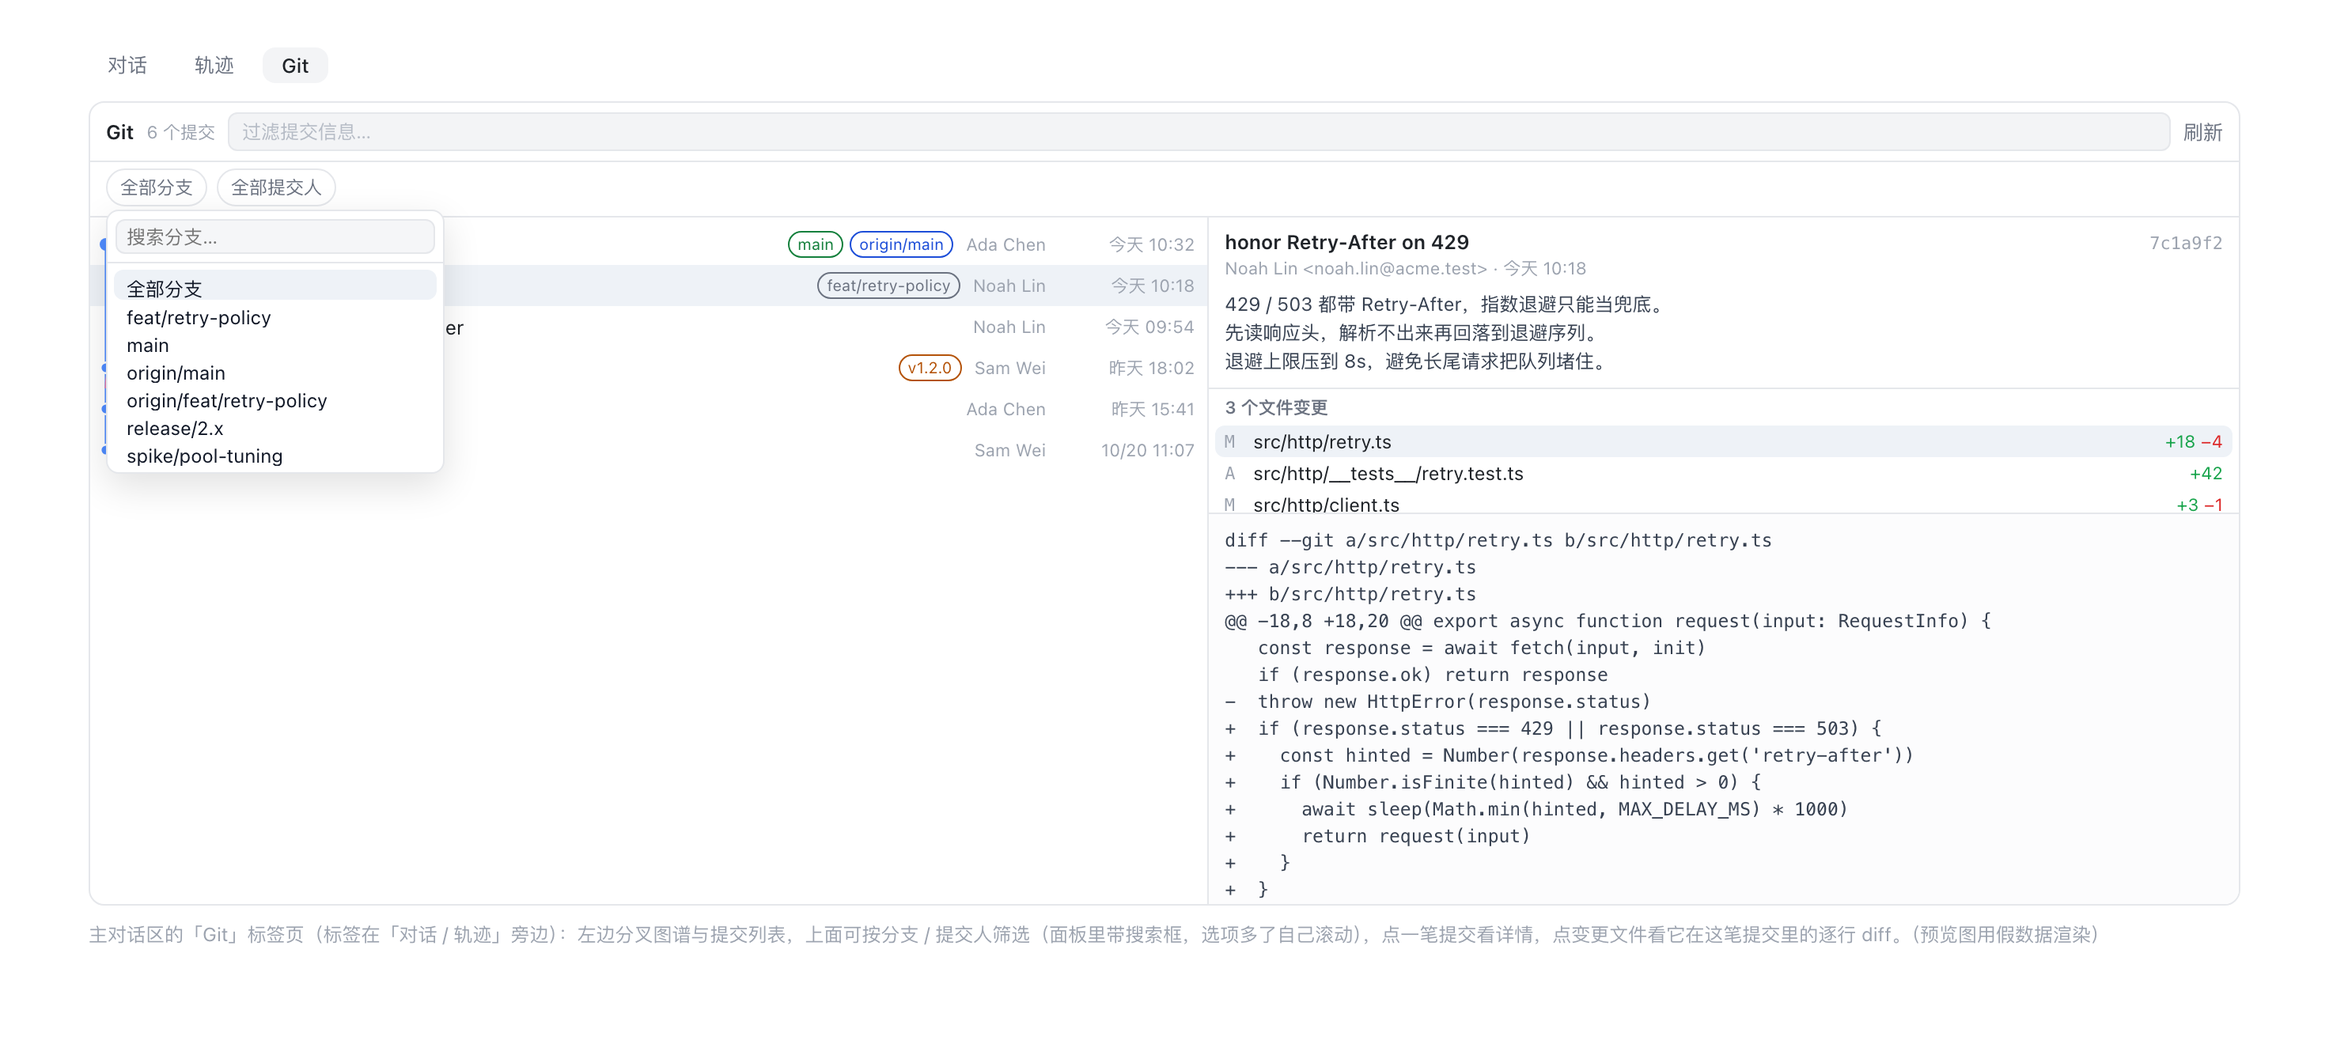
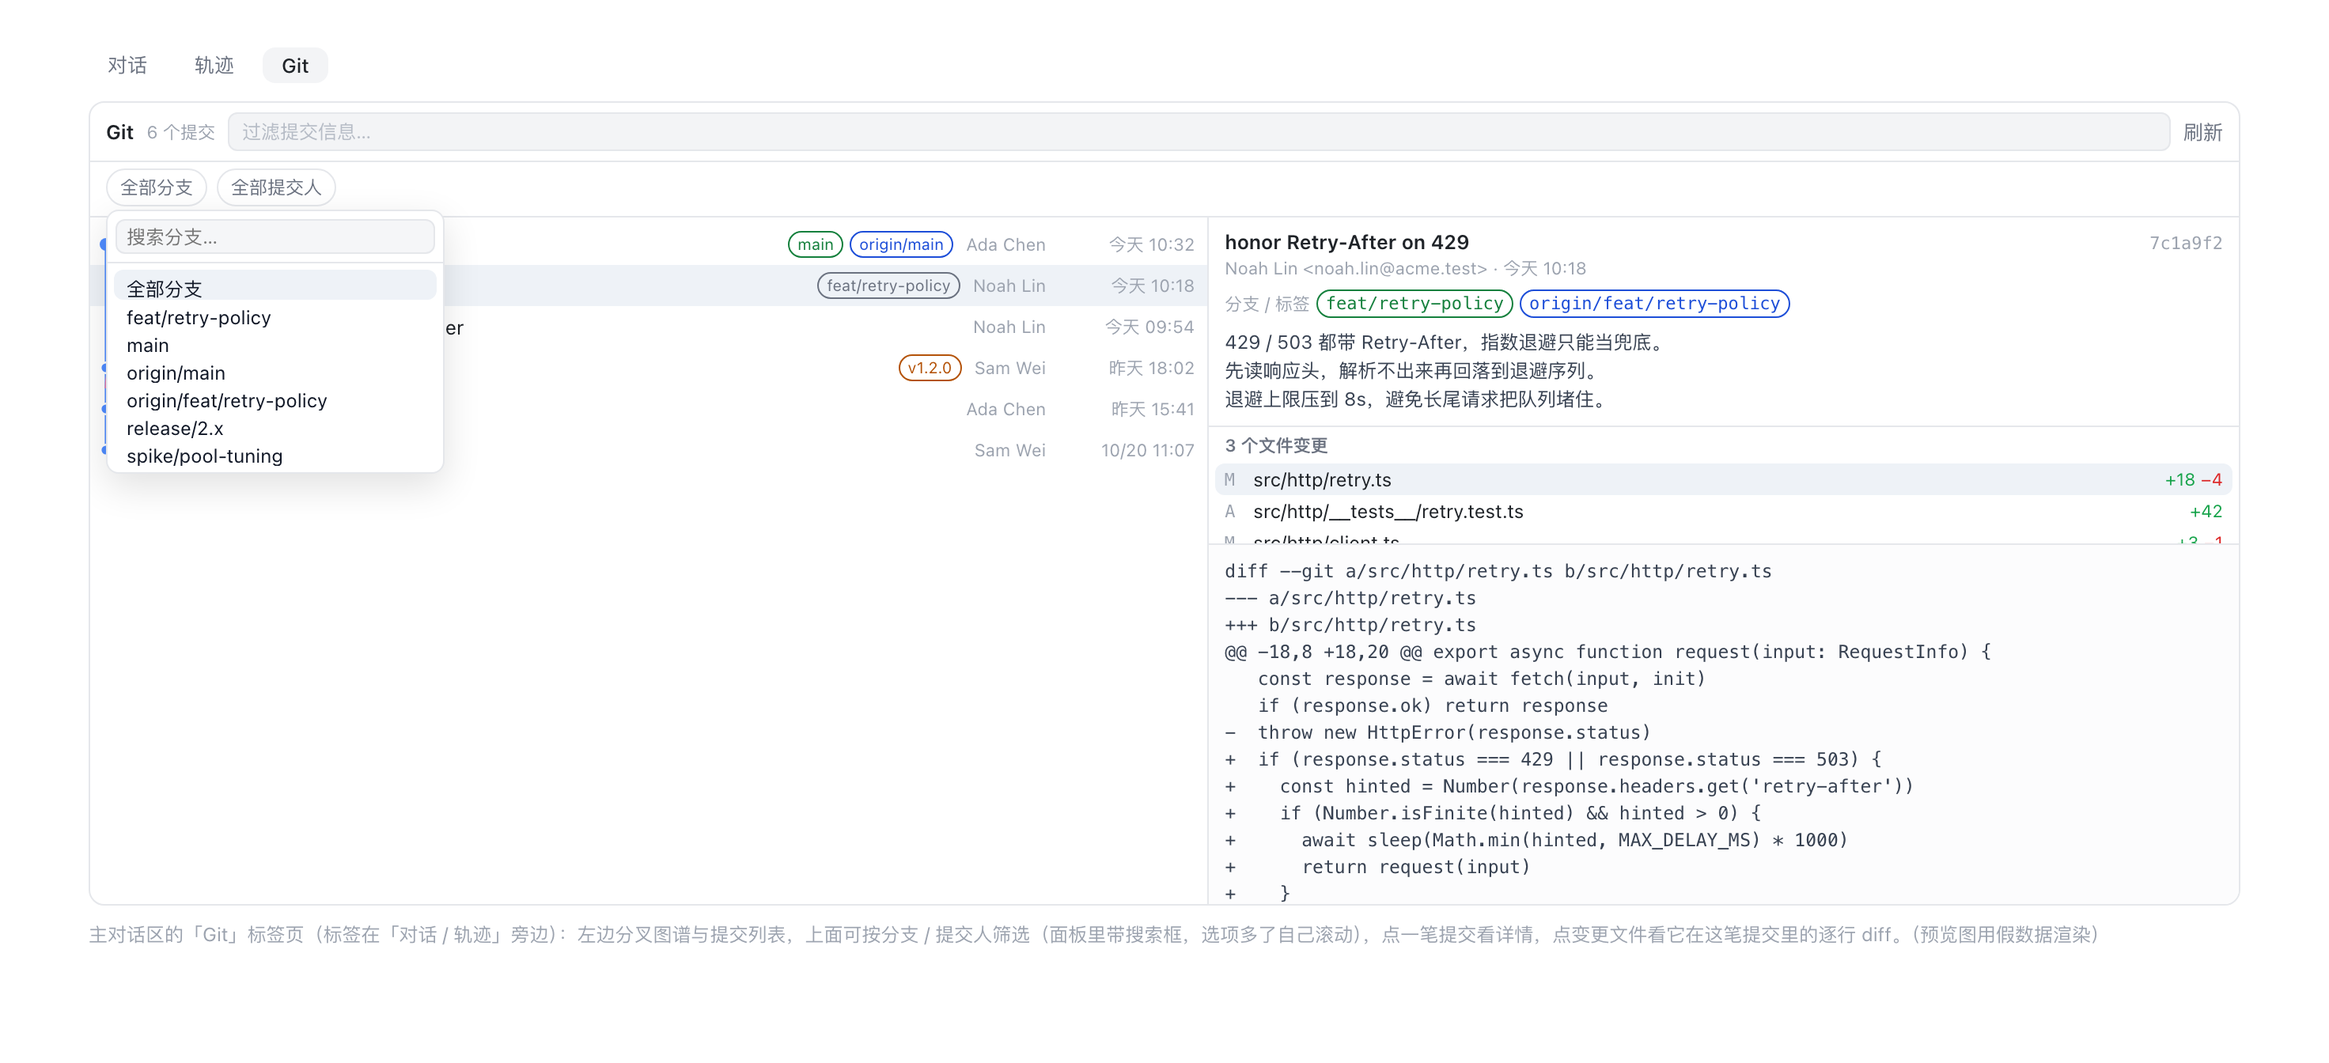
feat(history): 提交详情列出分支/标签全名，可拖选复制
左侧列表的徽标会被 maxWidth 截断，行又是 button，长分支名既看不全也选不动。
详情面板在作者行下面加一行「分支 / 标签」，chip 按 kind 上色、全名不截断、
user-select:text 可拖选复制；没有引用时不渲染空行。

数据由 GET /dsh-git-bar/commit 现查（git show -s --decorate=full --format=%D
+ 复用 parseRefs），而不是从已加载的 log 页里按 hash 找——切分支/提交人筛选后
选中的提交可能已不在当前页，那条路会给出空数组。

验证：npm run check、npm test 全绿；host 新增 44b（head:main / local:feature/x
/ tag:v1，无引用提交为空数组）；交互新增 8b（无引用不渲染 refs 行）与 chip 的
userSelect 断言；docs/preview-history.png 用假数据重渲染。

Changed region(s): [[0.5312, 0.25, 0.8438, 0.8438], [0.9375, 0.4375, 0.9688, 0.5]]

diff --git a/client.js b/client.js
@@ -186,6 +186,7 @@ window.__ModuleLoader__.load({
       'history.more': '加载更多提交',
       'history.capped': '已到 {count} 笔上限，缩小筛选范围才能看更早的提交',
       'history.pick': '选一笔提交查看详情',
+      'history.refs': '分支 / 标签',
       'history.files': '变更文件',
       'history.noFiles': '这笔提交没有文件变更',
       'history.diffPick': '选一个文件看它在这笔提交里的改动',
@@ -267,6 +268,7 @@ window.__ModuleLoader__.load({
       'history.more': 'Load more commits',
       'history.capped': 'Stopped at {count} commits — narrow the filter to reach older ones',
       'history.pick': 'Pick a commit to see its detail',
+      'history.refs': 'Branches / tags',
       'history.files': 'Changed files',
       'history.noFiles': 'This commit changes no file',
       'history.diffPick': 'Pick a file to see its change in this commit',
@@ -1985,6 +1987,37 @@ window.__ModuleLoader__.load({
         fontSize: '11px',
         color: 'var(--dsw-alias-label-tertiary, #9ca3af)',
       },
+      // 这笔提交的引用（分支 / 远端分支 / 标签）：完整名字排一行，允许换行；
+      // 与左侧列表上的小徽标不同，这里不截断——用户要照抄的就是这个全名。
+      detailRefs: {
+        flex: 'none',
+        display: 'flex',
+        flexWrap: 'wrap',
+        alignItems: 'center',
+        gap: '4px',
+        padding: '0 10px 6px',
+        fontSize: '11px',
+        lineHeight: '16px',
+        color: 'var(--dsw-alias-label-tertiary, #9ca3af)',
+        // 分支名要能被拖选、⌘/Ctrl+C 复制。
+        userSelect: 'text',
+        WebkitUserSelect: 'text',
+        cursor: 'text',
+      },
+      detailRef: {
+        flex: '0 1 auto',
+        maxWidth: '100%',
+        padding: '0 5px',
+        borderRadius: '999px',
+        border: '1px solid currentColor',
+        fontFamily: 'ui-monospace, SFMono-Regular, "SF Mono", Menlo, monospace',
+        fontSize: '11px',
+        lineHeight: '16px',
+        overflowWrap: 'anywhere',
+        userSelect: 'text',
+        WebkitUserSelect: 'text',
+        cursor: 'text',
+      },
       detailBody: {
         flex: 'none',
         maxHeight: '132px',
@@ -2309,7 +2342,7 @@ window.__ModuleLoader__.load({
       const [log, setLog] = React.useState({ phase: 'loading', commits: [], hasMore: false, reason: '', error: '' })
       const [filter, setFilter] = React.useState('')
       const [picked, setPicked] = React.useState('')
-      const [detail, setDetail] = React.useState({ phase: 'idle', subject: '', body: '', short: '', author: '', when: '', files: [], error: '', truncated: false })
+      const [detail, setDetail] = React.useState({ phase: 'idle', subject: '', body: '', short: '', author: '', when: '', files: [], refs: [], error: '', truncated: false })
       const [pickedPath, setPickedPath] = React.useState('')
       const [diff, setDiff] = React.useState({ phase: 'idle', text: '', truncated: false })
       const [menu, setMenu] = React.useState('')
@@ -2488,11 +2521,11 @@ window.__ModuleLoader__.load({
 
       React.useEffect(() => {
         if (picked === '') {
-          setDetail({ phase: 'idle', subject: '', body: '', short: '', author: '', when: '', files: [], error: '', truncated: false })
+          setDetail({ phase: 'idle', subject: '', body: '', short: '', author: '', when: '', files: [], refs: [], error: '', truncated: false })
           return () => {}
         }
         let live = true
-        setDetail({ phase: 'loading', subject: '', body: '', short: '', author: '', when: '', files: [], error: '', truncated: false })
+        setDetail({ phase: 'loading', subject: '', body: '', short: '', author: '', when: '', files: [], refs: [], error: '', truncated: false })
         getJson(COMMIT_ROUTE, { hash: picked })
           .then((body) => {
             if (!live) return
@@ -2504,13 +2537,14 @@ window.__ModuleLoader__.load({
               author: String(body.author ?? ''),
               when: String(body.when ?? ''),
               files: Array.isArray(body.files) ? body.files : [],
+              refs: Array.isArray(body.refs) ? body.refs : [],
               error: '',
               truncated: body.truncated === true,
             })
           })
           .catch((error) => {
             if (!live) return
-            setDetail({ phase: 'failed', subject: '', body: '', short: '', author: '', when: '', files: [], error: error instanceof Error ? error.message : String(error), truncated: false })
+            setDetail({ phase: 'failed', subject: '', body: '', short: '', author: '', when: '', files: [], refs: [], error: error instanceof Error ? error.message : String(error), truncated: false })
           })
         return () => {
           live = false
@@ -2894,6 +2928,27 @@ window.__ModuleLoader__.load({
                     h('span', { style: historyStyles.detailHash }, detail.short),
                   ),
                   h('div', { style: historyStyles.detailMeta }, `${detail.author} · ${formatWhen(detail.when, t)}`),
+                  // 这笔提交被哪些分支 / 标签指着。左侧列表里的徽标会被 `maxWidth` 截断、
+                  // 又在按钮里不好选，所以详情里把全名列出来，且可拖选复制。
+                  detail.refs.length === 0
+                    ? null
+                    : h(
+                        'div',
+                        { style: historyStyles.detailRefs, 'data-history-refs': '' },
+                        h('span', null, t('history.refs')),
+                        detail.refs.map((ref, index) =>
+                          h(
+                            'span',
+                            {
+                              key: `${ref?.name ?? ''}:${index}`,
+                              style: { ...historyStyles.detailRef, color: refBadgeColor(ref?.kind) },
+                              title: String(ref?.name ?? ''),
+                              'data-history-ref': String(ref?.name ?? ''),
+                            },
+                            String(ref?.name ?? ''),
+                          ),
+                        ),
+                      ),
                   detail.body === '' ? null : h('pre', { style: historyStyles.detailBody, 'data-history-body': '' }, detail.body),
                   h('div', { style: historyStyles.section }, t('history.files')),
                   files,

diff --git a/index.js b/index.js
@@ -1263,14 +1263,20 @@ function parseNameStatus(text) {
  * has after the change. A path `--numstat` does not mention — a merge commit,
  * whose `--name-status` output is empty anyway — keeps 0/0 and is not binary.
  *
+ * A second `git show` reads the `%D` column, parsed by the same `parseRefs()`
+ * the history rows use: the detail pane shows the branch names a `/log` row
+ * would print as badges, from the commit itself rather than from the loaded page.
+ *
  * @param dir - absolute directory.
  * @param hash - 4..40 hex digits, already validated.
  * @returns `{ commit }` on success, or `{ failure }` holding git's own message.
  */
 async function readCommit(dir, hash) {
-  const [shown, named] = await Promise.all([
+  const [shown, named, decorated] = await Promise.all([
     runGit(dir, ['show', '--no-ext-diff', `--format=${COMMIT_FORMAT}`, '--numstat', hash], { trim: false }),
     runGit(dir, ['diff-tree', '--no-commit-id', '--name-status', '-r', '-M', hash]),
+    // 装饰信息只用于展示：读不到（老 git、奇怪配置）就当这笔提交没被引用，别把详情整体判失败。
+    runGit(dir, ['show', '-s', '--decorate=full', '--format=%D', hash]),
   ])
   if (!shown.ok && !shown.overflow) return { failure: failureMessage(shown) }
   if (!named.ok) return { failure: failureMessage(named) }
@@ -1300,6 +1306,7 @@ async function readCommit(dir, hash) {
       when: fields[5],
       subject: fields[6],
       body: (fields[7] ?? '').trim(),
+      refs: decorated.ok ? parseRefs(decorated.out) : [],
       files,
       truncated: rows.length > MAX_COMMIT_FILES || shown.overflow || named.overflow,
     },

diff --git a/scripts/previews/style.css b/scripts/previews/style.css
@@ -198,6 +198,16 @@ body {
 .dhead .subject { font-weight: 600; flex: 1 1 auto; min-width: 0; }
 .dhead .hash { flex: none; font-family: ui-monospace, SFMono-Regular, Menlo, monospace; font-size: 11px; color: #9ca3af; }
 .dmeta { flex: none; padding: 2px 10px 6px; font-size: 11px; color: #9ca3af; }
+.drefs {
+  flex: none; display: flex; flex-wrap: wrap; align-items: center; gap: 4px;
+  padding: 0 10px 6px; font-size: 11px; line-height: 16px; color: #9ca3af;
+  user-select: text; cursor: text;
+}
+.drefs .ref {
+  flex: 0 1 auto; max-width: 100%; padding: 0 5px; border-radius: 999px;
+  border: 1px solid currentColor; overflow-wrap: anywhere;
+  font-family: ui-monospace, SFMono-Regular, Menlo, monospace;
+}
 .dbody { flex: none; margin: 0; padding: 0 10px 8px; font-size: 12px; line-height: 18px; white-space: pre-wrap; color: #374151; }
 .dsection { flex: none; padding: 4px 10px; font-size: 11px; font-weight: 600; color: #6b7280; border-top: 1px solid #e5e7eb; }
 .dfiles { flex: 0 1 auto; min-height: 0; padding: 0 4px 4px; }

diff --git a/scripts/previews/history.html b/scripts/previews/history.html
@@ -64,6 +64,7 @@
       <div class="hdetail">
         <div class="dhead"><span class="subject">honor Retry-After on 429</span><span class="hash">7c1a9f2</span></div>
         <div class="dmeta">Noah Lin &lt;noah.lin@acme.test&gt; · 今天 10:18</div>
+        <div class="drefs"><span>分支 / 标签</span><span class="ref head">feat/retry-policy</span><span class="ref remote">origin/feat/retry-policy</span></div>
         <p class="dbody">429 / 503 都带 Retry-After，指数退避只能当兜底。
 先读响应头，解析不出来再回落到退避序列。
 退避上限压到 8s，避免长尾请求把队列堵住。</p>

diff --git a/findings.md b/findings.md
@@ -128,3 +128,24 @@ headless Chrome fixture 复现（14 行真实分支名、`max-height:248px; padd
   `/branches` 回复新增 `remotes` / `remotesTruncated`；Client 把 `body.remotes` 接在本地分支之后塞进筛选选项。
 - `remotes` 只用于提交历史筛选：`/log?branch=origin/feat-x` 走的是 `git log <revision>`（`args.push(filters.branch)`），
   `validBranchFilter()` 的 `BRANCH_PATTERN = /^[A-Za-z0-9._/-]+$/` 接受这种名字；切换/新建分支仍只看 `branches`，语义不变。
+
+## 提交详情显示分支名（第九轮）
+
+- 用户诉求（m00003）：提交详情的右侧面板要能看到 git 分支名，并且能选中复制。左侧列表上的徽标虽然有分支名，
+  但 `historyStyles.refs` 是 `maxWidth: 45%` + `textOverflow: ellipsis`，长分支名被截断；而且行是 `button`，
+  按钮里的文字在部分浏览器里选不动，所以需求落在详情面板而不是列表行。
+- 数据源没用「从已加载的 `log.commits` 里按 hash 找 `refs`」：`applyFilter()` 只重置 `page`，不重置 `picked`，
+  换了分支 / 提交人筛选后选中的提交可能已经不在这一页，那条路会给空数组。改成 Host 在
+  `GET /dsh-git-bar/commit` 里现查，详情永远自带引用。
+- 实现：`readCommit()` 并行多跑一条 `git show -s --decorate=full --format=%D <hash>`，用现成的 `parseRefs()` 解析
+  （与 `/log` 行的徽标同一套 kind：`head` / `local` / `remote` / `tag`）；读失败只当「没有引用」，不让详情整体 404。
+  实测本仓库：`git show -s --decorate=full --format=%D HEAD` → `HEAD -> refs/heads/master`；`HEAD~1` → 空行。
+- 可选中：`detailRefs` / `detailRef` 都写 `userSelect: 'text'` + `WebkitUserSelect: 'text'` + `cursor: 'text'`，
+  这也是状态条那轮（`styles.bar` 的注释「这一行只是展示，文字要能被选中、复制」）的同一套做法；
+  详情区不是按钮，不需要 `selectionActive()` 守卫。
+- 长名字不截断：`maxWidth: '100%'` + `overflowWrap: 'anywhere'`，允许换成两行，宁可难看也不藏字。
+- 预览图：`scripts/previews/history.html` / `style.css` 补 `.drefs` 假数据行，用脚本同一套 Chrome 参数渲染
+  `docs/preview-history.png`（`--headless=new --force-device-scale-factor=2 --window-size=1472,672`），
+  实拍确认「分支 / 标签 feat/retry-policy origin/feat/retry-policy」一行显示正常，颜色与列表徽标一致。
+- 探路记录：`curl http://127.0.0.1:61719/dsh-git-bar/commit?...` 返回 401（web server 要鉴权），
+  所以没把「打真机接口」当证据；Host 的验证靠 `test/host.test.mjs` 里真 git 仓库的 44 / 44b。

diff --git a/task_plan.md b/task_plan.md
@@ -168,3 +168,22 @@ GET /dsh-git-bar/authors?sessionId=<id>[&dir=<abs>]
    列表有显式高度且 `overflowY:auto`；缺 `react-dom` 时就地渲染且不报错。
 3. 顶部计数（`N 笔提交`）与页脚跟累积结果一致；到达 `HISTORY_MAX_COMMITS` 时明确提示还有更多。
 4. `npm run check` + `npm test` 全绿，中英 README 的 `/log` 契约同步 `skip`。
+
+## 第九轮：提交详情里显示这笔提交引用的分支名，并且能选中复制（当前任务）
+
+用户（m00003）：「这个提交详情的区域要显示 git 分支 名  同时能让我选中复制这个分支名」
+
+### 目标与验收
+1. Git 历史标签页右侧提交详情里，出现这笔提交引用的分支 / 标签（`HEAD` 所指分支、本地分支、`origin/x`、tag），
+   名字完整显示（不再像左侧列表那样被 `maxWidth: 45%` 截断），按 kind 上色（head 绿 / remote 蓝 / tag 橙 / local 灰）。
+   验收：`node test/interaction.test.mjs` 断言详情里 `data-history-ref` 依次为 `main`、`v1.0`。
+2. 分支名可被鼠标拖选、`⌘/Ctrl+C` 复制：chip 与容器都是 `userSelect: 'text'` + `WebkitUserSelect: 'text'`，
+   `cursor: text`；详情区不是按钮，不需要 `selectionActive()` 守卫。
+   验收：交互测试断言 chip 的 `style.userSelect === 'text'`。
+3. 数据源放在 Host（`GET /dsh-git-bar/commit` 返回 `refs`），由 `git show -s --decorate=full --format=%D` + 现有
+   `parseRefs()` 解析——复用 `%D` 解析，语义与 `/log` 行上的徽标一致；不依赖「这笔提交刚好在已加载的那一页」，
+   切了分支/提交人筛选后详情照样有徽标。
+   验收：`node test/host.test.mjs` 断言 tip 提交 `refs = [{ name: 'main', kind: 'head' }]`、其父提交 `refs = []`。
+4. 无 refs 的提交不渲染空行（不显示标签、不占位）。
+5. 中英 README 的 `/commit` 契约补 `refs`，历史页功能描述补一句「详情里显示引用并可选中复制」。
+6. `npm run check` + `npm test` 全绿。

diff --git a/README.md b/README.md
@@ -51,7 +51,9 @@ usable. The branch dropdown lists every local branch and every remote-tracking
 one (`origin/<branch>`), so a branch that only exists on the remote can still be
 searched for and filtered by; the author list comes from `/authors`, i.e. from
 every commit in the repository, not just the page already loaded. Picking a commit reads its author, time, full
-message and changed files; picking a file reads its unified diff inside that
+message and changed files; the same pane lists the branches and tags that point
+at the commit (the branch `HEAD` sits on, local branches, `origin/<branch>`, tags)
+by their full name, which can be drag-selected and copied; picking a file reads its unified diff inside that
 commit. Scrolling to the bottom loads older commits by itself; there is no
 "load more" button. The tab only reads: no ref, index or worktree is written.
 - nothing here silently scrolls away: a drag that selects text does not also open
@@ -169,7 +171,9 @@ by default, 300 at most; `skip` is how many commits the caller already has, whic
 is how the panel pages through a history longer than one page.
 
 `GET /dsh-git-bar/commit?sessionId=<id>&hash=<4..40 hex>` — `{ dir, hash, short,
-parents, author, email, when, subject, body, files, truncated }`, each file being
+parents, author, email, when, subject, body, refs, files, truncated }`, `refs`
+being `[{ name, kind }]` for every branch or tag pointing at the commit (same
+shape as in `/log`, empty when nothing points at it), each file being
 `{ path, status, additions, deletions, binary }`, capped at 500 files.
 
 `GET /dsh-git-bar/commit-diff?sessionId=<id>&hash=<4..40 hex>&path=<repo-relative>`

diff --git a/progress.md b/progress.md
@@ -92,3 +92,13 @@
   （搜 `FEAT` 命中 `origin/feat-x`、搜 `zoe` 命中只在 `/authors` 里的 Zoe）；`npm run check` + `npm test` 全绿。
 - 待确认：重启桌面端后分支下拉能否看到远端分支、能否滚到底。
 - 未做：未升版本、未推送。
+
+## 提交详情显示分支名、可选中复制（第九轮）
+- 已完成：Host `readCommit()` 增返回 `refs`（`git show -s --decorate=full --format=%D` + `parseRefs()`）；
+  Client 详情面板在作者行下面渲染「分支 / 标签」一行，chip 按 kind 上色、全名不截断、可拖选复制；
+  无引用时不渲染空行。中英 README 的 `/commit` 契约与历史页描述同步；`docs/preview-history.png` 重渲染。
+- 已验证：`npm run check`（隐私检查 31 文件无命中）+ `npm test` 全绿；Host 新增 `44b commit refs OK
+  head:main, local:feature/x, tag:v1`；交互新增 `8b no-refs commit OK` 与详情 chip 的 `userSelect/text` 断言。
+- 待确认（要用户操作）：**Host 半要重启 DSH 桌面端**才生效（插件是 `link:` 进 desktop profile，Host 代码在进程里），
+  然后刷新页面才能看到详情里的分支名。
+- 未做：未升版本、未推送。
